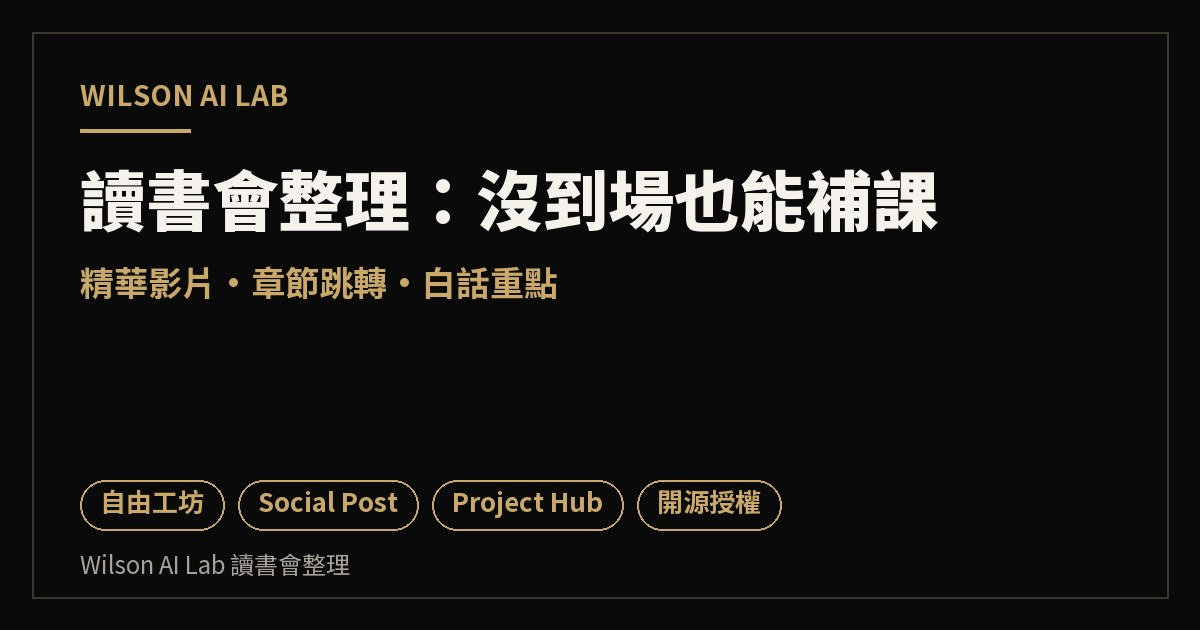
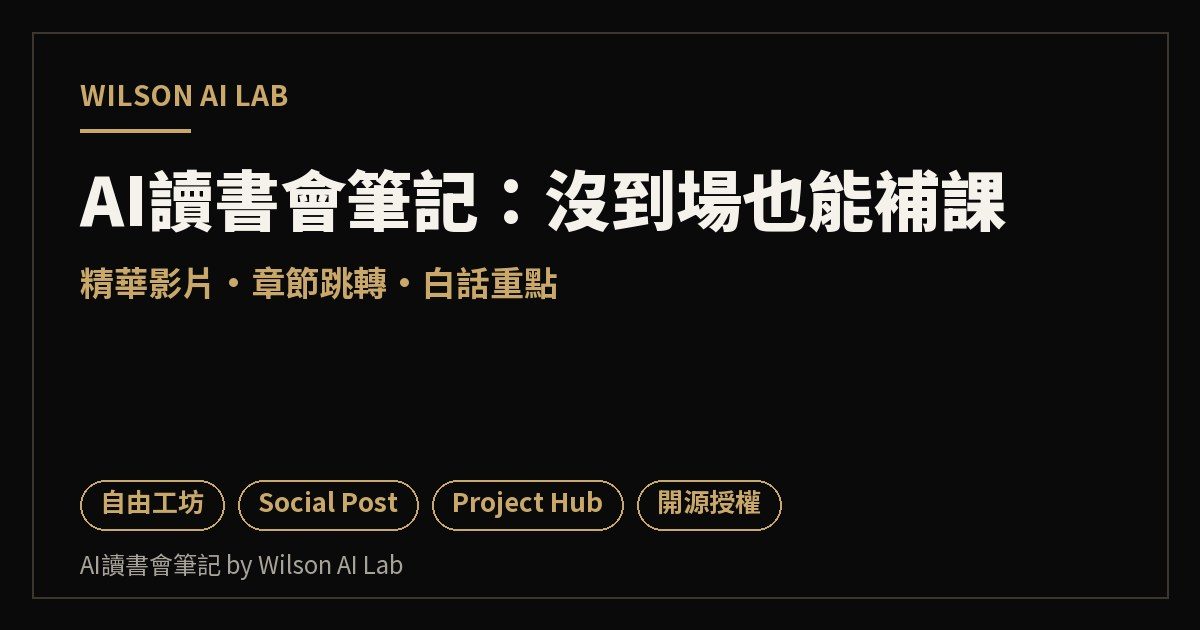
更新內容

Changed region(s): [[0.0617, 0.2714, 0.8325, 0.3921], [0.0617, 0.8746, 0.3392, 0.9349]]

diff --git a/docs/index.html b/docs/index.html
@@ -3,34 +3,34 @@
 <head>
 <meta charset="utf-8">
 <meta name="viewport" content="width=device-width, initial-scale=1">
-<title>讀書會整理</title>
-<meta name="description" content="Wilson AI Lab整理的AI讀書會精華：精華影片、章節與白話重點，依社群分區，每參加一場就累積一頁。講者以Discord名稱標示。">
+<title>AI讀書會筆記 by Wilson AI Lab</title>
+<meta name="description" content="Wilson AI Lab整理的AI讀書會筆記：精華影片、章節與白話重點，依社群分區，每參加一場就累積一頁。講者以Discord名稱標示。">
 <link rel="icon" type="image/png" href="img/favicon.png">
 <link rel="apple-touch-icon" href="img/apple-touch-icon.png">
 <link rel="canonical" href="https://wilsonaimaster.github.io/ai-study-club-archive/">
 <meta property="og:type" content="website">
-<meta property="og:site_name" content="Wilson AI Lab 讀書會整理">
-<meta property="og:title" content="讀書會整理">
-<meta property="og:description" content="Wilson AI Lab整理的AI讀書會精華：精華影片、章節與白話重點，依社群分區，每參加一場就累積一頁。講者以Discord名稱標示。">
+<meta property="og:site_name" content="AI讀書會筆記 by Wilson AI Lab">
+<meta property="og:title" content="AI讀書會筆記 by Wilson AI Lab">
+<meta property="og:description" content="Wilson AI Lab整理的AI讀書會筆記：精華影片、章節與白話重點，依社群分區，每參加一場就累積一頁。講者以Discord名稱標示。">
 <meta property="og:url" content="https://wilsonaimaster.github.io/ai-study-club-archive/">
 <meta property="og:image" content="https://wilsonaimaster.github.io/ai-study-club-archive/img/og-home.jpg">
 <meta property="og:image:width" content="1200">
 <meta property="og:image:height" content="630">
 <meta property="og:locale" content="zh_TW">
 <meta name="twitter:card" content="summary_large_image">
-<meta name="twitter:title" content="讀書會整理">
-<meta name="twitter:description" content="Wilson AI Lab整理的AI讀書會精華：精華影片、章節與白話重點，依社群分區，每參加一場就累積一頁。講者以Discord名稱標示。">
+<meta name="twitter:title" content="AI讀書會筆記 by Wilson AI Lab">
+<meta name="twitter:description" content="Wilson AI Lab整理的AI讀書會筆記：精華影片、章節與白話重點，依社群分區，每參加一場就累積一頁。講者以Discord名稱標示。">
 <meta name="twitter:image" content="https://wilsonaimaster.github.io/ai-study-club-archive/img/og-home.jpg">
 <link rel="stylesheet" href="style.css">
 </head>
 <body>
 <header class="topbar">
-  <a class="brand" href="./">Wilson <span>AI Lab</span> 讀書會整理</a>
+  <a class="brand" href="./">AI讀書會筆記 <span>by Wilson AI Lab</span></a>
   <nav><a href="https://github.com/WilsonAImaster/ai-study-club-archive">GitHub</a></nav>
 </header>
 <main class="wrap">
 <p class="eyebrow">WILSON AI LAB</p>
-<h1>讀書會整理：沒到場也能補課</h1>
+<h1>AI讀書會筆記：沒到場也能補課</h1>
 <p class="lead">我參加的AI讀書會，整理成精華影片、章節和白話重點，依社群分區。每參加一場，這裡就多一頁。</p>
 <input class="search" type="search" placeholder="搜尋關鍵字：例如 Codex、演算法、授權" data-search aria-label="搜尋紀錄">
 <div data-stream-groups></div>

diff --git a/docs/streams/2026-11-11-ama-social-post/index.html b/docs/streams/2026-11-11-ama-social-post/index.html
@@ -9,7 +9,7 @@
 <link rel="apple-touch-icon" href="../../img/apple-touch-icon.png">
 <link rel="canonical" href="https://wilsonaimaster.github.io/ai-study-club-archive/streams/2026-11-11-ama-social-post/">
 <meta property="og:type" content="article">
-<meta property="og:site_name" content="Wilson AI Lab 讀書會整理">
+<meta property="og:site_name" content="AI讀書會筆記 by Wilson AI Lab">
 <meta property="og:title" content="AI寫的貼文為什麼沒流量？自由工坊讀書會11/11重點整理">
 <meta property="og:description" content="跟著做一次Social Post Skill：寫法Mode A／B／C、發文前三檢查；FB和Threads的實測技巧；Editkin剪輯軟體、開源授權怎麼選、一張圖生成3D模型、免費營運工具。40個章節與白話重點。">
 <meta property="og:url" content="https://wilsonaimaster.github.io/ai-study-club-archive/streams/2026-11-11-ama-social-post/">
@@ -25,7 +25,7 @@
 </head>
 <body>
 <header class="topbar">
-  <a class="brand" href="../../">Wilson <span>AI Lab</span> 讀書會整理</a>
+  <a class="brand" href="../../">AI讀書會筆記 <span>by Wilson AI Lab</span></a>
   <nav><a href="../../">全部紀錄</a></nav>
 </header>
 <main class="wrap">

diff --git a/docs/streams/2026-10-14-ama-project-hub/index.html b/docs/streams/2026-10-14-ama-project-hub/index.html
@@ -9,7 +9,7 @@
 <link rel="apple-touch-icon" href="../../img/apple-touch-icon.png">
 <link rel="canonical" href="https://wilsonaimaster.github.io/ai-study-club-archive/streams/2026-10-14-ama-project-hub/">
 <meta property="og:type" content="article">
-<meta property="og:site_name" content="Wilson AI Lab 讀書會整理">
+<meta property="og:site_name" content="AI讀書會筆記 by Wilson AI Lab">
 <meta property="og:title" content="AI額度用完，自動換另一個AI接手？自由工坊讀書會10/14重點整理">
 <meta property="og:description" content="自由工坊平台怎麼從一個GitHub Issue開始參與；Project Hub把Claude Code、Codex、Gemini收進同一個視窗，額度用完自動換人接手。22個章節與白話重點。">
 <meta property="og:url" content="https://wilsonaimaster.github.io/ai-study-club-archive/streams/2026-10-14-ama-project-hub/">
@@ -25,7 +25,7 @@
 </head>
 <body>
 <header class="topbar">
-  <a class="brand" href="../../">Wilson <span>AI Lab</span> 讀書會整理</a>
+  <a class="brand" href="../../">AI讀書會筆記 <span>by Wilson AI Lab</span></a>
   <nav><a href="../../">全部紀錄</a></nav>
 </header>
 <main class="wrap">

diff --git a/docs/404.html b/docs/404.html
@@ -3,18 +3,18 @@
 <head>
 <meta charset="utf-8">
 <meta name="viewport" content="width=device-width, initial-scale=1">
-<title>找不到頁面｜讀書會整理</title>
+<title>找不到頁面｜AI讀書會筆記</title>
 <link rel="icon" type="image/png" href="/ai-study-club-archive/img/favicon.png">
 <link rel="stylesheet" href="/ai-study-club-archive/style.css">
 </head>
 <body>
 <header class="topbar">
-  <a class="brand" href="/ai-study-club-archive/">Wilson <span>AI Lab</span> 讀書會整理</a>
+  <a class="brand" href="/ai-study-club-archive/">AI讀書會筆記 <span>by Wilson AI Lab</span></a>
 </header>
 <main class="wrap">
 <h1>找不到這個頁面</h1>
 <p class="lead">網址可能打錯了，或這一頁已經搬家。</p>
-<p><a class="btn" href="/ai-study-club-archive/">回到讀書會整理首頁</a></p>
+<p><a class="btn" href="/ai-study-club-archive/">回到AI讀書會筆記首頁</a></p>
 </main>
 <!-- Cloudflare Web Analytics --><script type='module' src='https://static.cloudflareinsights.com/beacon.min.js' data-cf-beacon='{"token": "fbad8f9c527c4fb58cd404a95f3060f7"}'></script><!-- End Cloudflare Web Analytics -->
 </body>

diff --git a/docs/style.css b/docs/style.css
@@ -1,4 +1,4 @@
-/* 讀書會整理：共用樣式（黑金配色） */
+/* AI讀書會筆記：共用樣式（黑金配色） */
 @import url("https://fonts.googleapis.com/css2?family=Noto+Sans+TC:wght@400;700;900&display=swap");
 :root {
   --bg: #0A0A0B;
@@ -119,3 +119,5 @@ blockquote { margin: 0 0 18px; padding: 4px 16px; border-left: 3px solid var(--g
 .community h2 .count { font-size: 14px; font-weight: 400; color: var(--muted); }
 .community-desc { color: var(--muted); font-size: 15px; margin: -6px 0 4px; }
 .community-links { font-size: 15px; font-weight: 700; margin: 0 0 16px; }
+
+.topbar .brand span { font-size: .8em; font-weight: 700; margin-left: 4px; }

diff --git a/README.md b/README.md
@@ -1,4 +1,4 @@
-# Wilson AI Lab 讀書會整理
+# AI讀書會筆記 by Wilson AI Lab
 
 沒到場也能補課。我參加的AI讀書會，整理成精華影片、章節和白話重點，**依社群分區**。每參加一場，這裡就多一頁。
 
